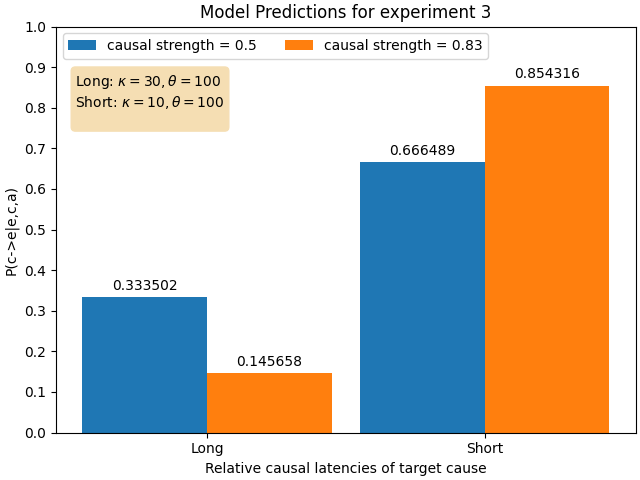
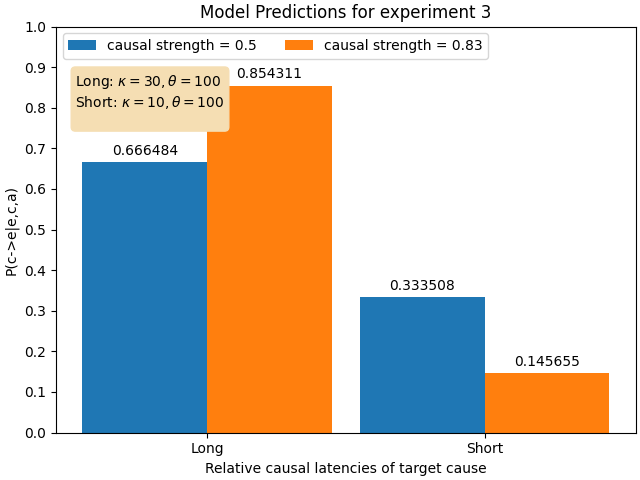
error bars for exp3

diff --git a/plotting/plot_results.py b/plotting/plot_results.py
@@ -3,11 +3,13 @@ import matplotlib.pyplot as plt
 import matplotlib.ticker as ticker
 from matplotlib.offsetbox import AnchoredText
 
-def plot_exp2(d, title):
+def plot_exp2(d, title, errors=None):
     """Plot bar graph for experiment 2,
     d: dict with keys as conditions and values for condition
     title: title to use (experimental or prediction)
     """
+    if errors is not None:
+        errs = [(e[1] - e[0]) for e in errors]
     x = d.keys()
     y = [float(v) for v in d.values()]
     text1 = r'Condition1: $\kappa = 10, \theta = 100 $' + "\n"
@@ -17,7 +19,7 @@ def plot_exp2(d, title):
     text5 = r'Condition5: $\kappa = 30, \theta = 100 $'
     anchor = AnchoredText(text1+text2+text3+text4+text5, loc="upper right")
     fig, ax = plt.subplots()
-    ax.bar(x, y)
+    ax.bar(x, y, yerr=errs)
     ax.yaxis.set_major_locator(ticker.MultipleLocator(0.1))
     ax.set_ylabel('P(c->e|e,c,a)')
     ax.set_ylim(0, 1)
@@ -26,31 +28,36 @@ def plot_exp2(d, title):
     plt.savefig(f'results/{title}.png')
     return
 
-def plot_exp3(d, title):
+def plot_exp3(d, title, errors=None):
     """Plot bar graph for experiment3
     d: dictionary with conditions as keys and value for condition
     title: title to use (experimental or prediction)
     """
+    if errors is not None:
+        errs = [(e[1] - e[0]) for e in errors]
     conditions = ("Long", "Short")
     causal_strengths = {
-        'causal strength = 0.5': (float(d["weak_long"]), float(d["weak_short"])),
-        'causal strength = 0.83': (float(d["strong_long"]), float(d["strong_short"])),
+        'causal strength = 0.5': (float(d["weak_short"]), float(d["weak_long"])),
+        'causal strength = 0.83': (float(d["strong_short"]), float(d["strong_long"])),
     }
     x = np.arange(len(conditions))  # the label locations
     width = 0.45  # the width of the bars
     multiplier = 0
 
     fig, ax = plt.subplots(layout='constrained')
-
+    i = 2 #index for error bar array
+    j = 0
     for s, val in causal_strengths.items():
         offset = width * multiplier
-        rects = ax.bar(x + offset, val, width, label=s)
-        ax.bar_label(rects, padding=3)
+        ax.bar(x + offset, val, width, label=s, yerr=errs[j:i])
+        # ax.bar_label(rects, padding=3)
         multiplier += 1
+        i += 2
+        j += 2
     text1 = r'Long: $\kappa = 30, \theta = 100 $' + "\n"
     text2 = r'Short: $\kappa = 10, \theta = 100$'+ "\n" 
     props = dict(boxstyle='round', color="wheat")
-    ax.text(-0.25, 0.76, text1+text2, bbox=props)
+    ax.text(1, 0.76, text1+text2, bbox=props)
     ax.set_xlabel("Relative causal latencies of target cause")
     ax.set_ylabel('P(c->e|e,c,a)')
     ax.set_ylim(0, 1)

diff --git a/experimental_data/experiments.py b/experimental_data/experiments.py
@@ -20,15 +20,15 @@ def bootstrap_95_CI(data):
     Returns:
         [2]: 95% confidence interval
     """
-    percentiles = {}
+    percentiles = []
     for col in data:
         s_means = np.zeros(10000)
         for i in range(10000):
             sample = np.random.choice(data[col], len(data[col]))
             s_mean = np.mean(sample)
             s_means[i] = s_mean
-        percentiles[col] = np.percentile(s_means, [2.5, 97.5])
-    return percentiles
+        percentiles.append(np.percentile(s_means, [2.5, 97.5]))
+    return np.asarray(percentiles)
 
 #Function to pass to apply in exp2
 #and then update rating
@@ -67,6 +67,10 @@ def exp2_data():
     means = np.asarray(df_ratings.apply(np.mean)) / 10
     return dict(zip(labels, means))
 
+def get_errors2():
+    data = cleanData2()
+    return bootstrap_95_CI(data) / 10
+
 #Function to pass to apply in exp3
 #and then update rating
 def updateRating3(row, *args):
@@ -98,6 +102,11 @@ def cleanData3():
             ]
     df_ratings = pd.concat(ratings, axis=1,)
     return df_ratings
+
+def get_errors3():
+    data = cleanData3()
+    return bootstrap_95_CI(data)
+
 
 ##just a wrapper for api purposes
 def exp3_data():

diff --git a/main.py b/main.py
@@ -5,14 +5,16 @@ from plotting.plot_results  import *
 if __name__ == "__main__":
     ##TODO make cli args 
     #predictions
-    d_pred2 = exp2_prediction()
+    # d_pred2 = exp2_prediction()
     # d_pred3 = exp3_prediction()
     # plot_exp2(d_pred2, "Model Predictions for experiment 2")
     # plot_exp3(d_pred3, "Model Predictions for experiment 3")
     # #behavioural data
-    d_data2 = exp2_data()
-    # d_data3 = exp3_data()
-    # plot_exp2(d_data2, "Results for experiment 2")
-    # plot_exp3(d_data3, "Results for experiment 3")
-    plot_correlation2(d_pred2, d_data2)
+    # d_data2 = exp2_data()
+    # errors2 = get_errors2() 
+    d_data3 = exp3_data()
+    errors3 = get_errors3()
+    # plot_exp2(d_data2, "Results for experiment 2", errors2)
+    plot_exp3(d_data3, "Results for experiment 3", errors3)
+    # plot_correlation2(d_pred2, d_data2)
 
